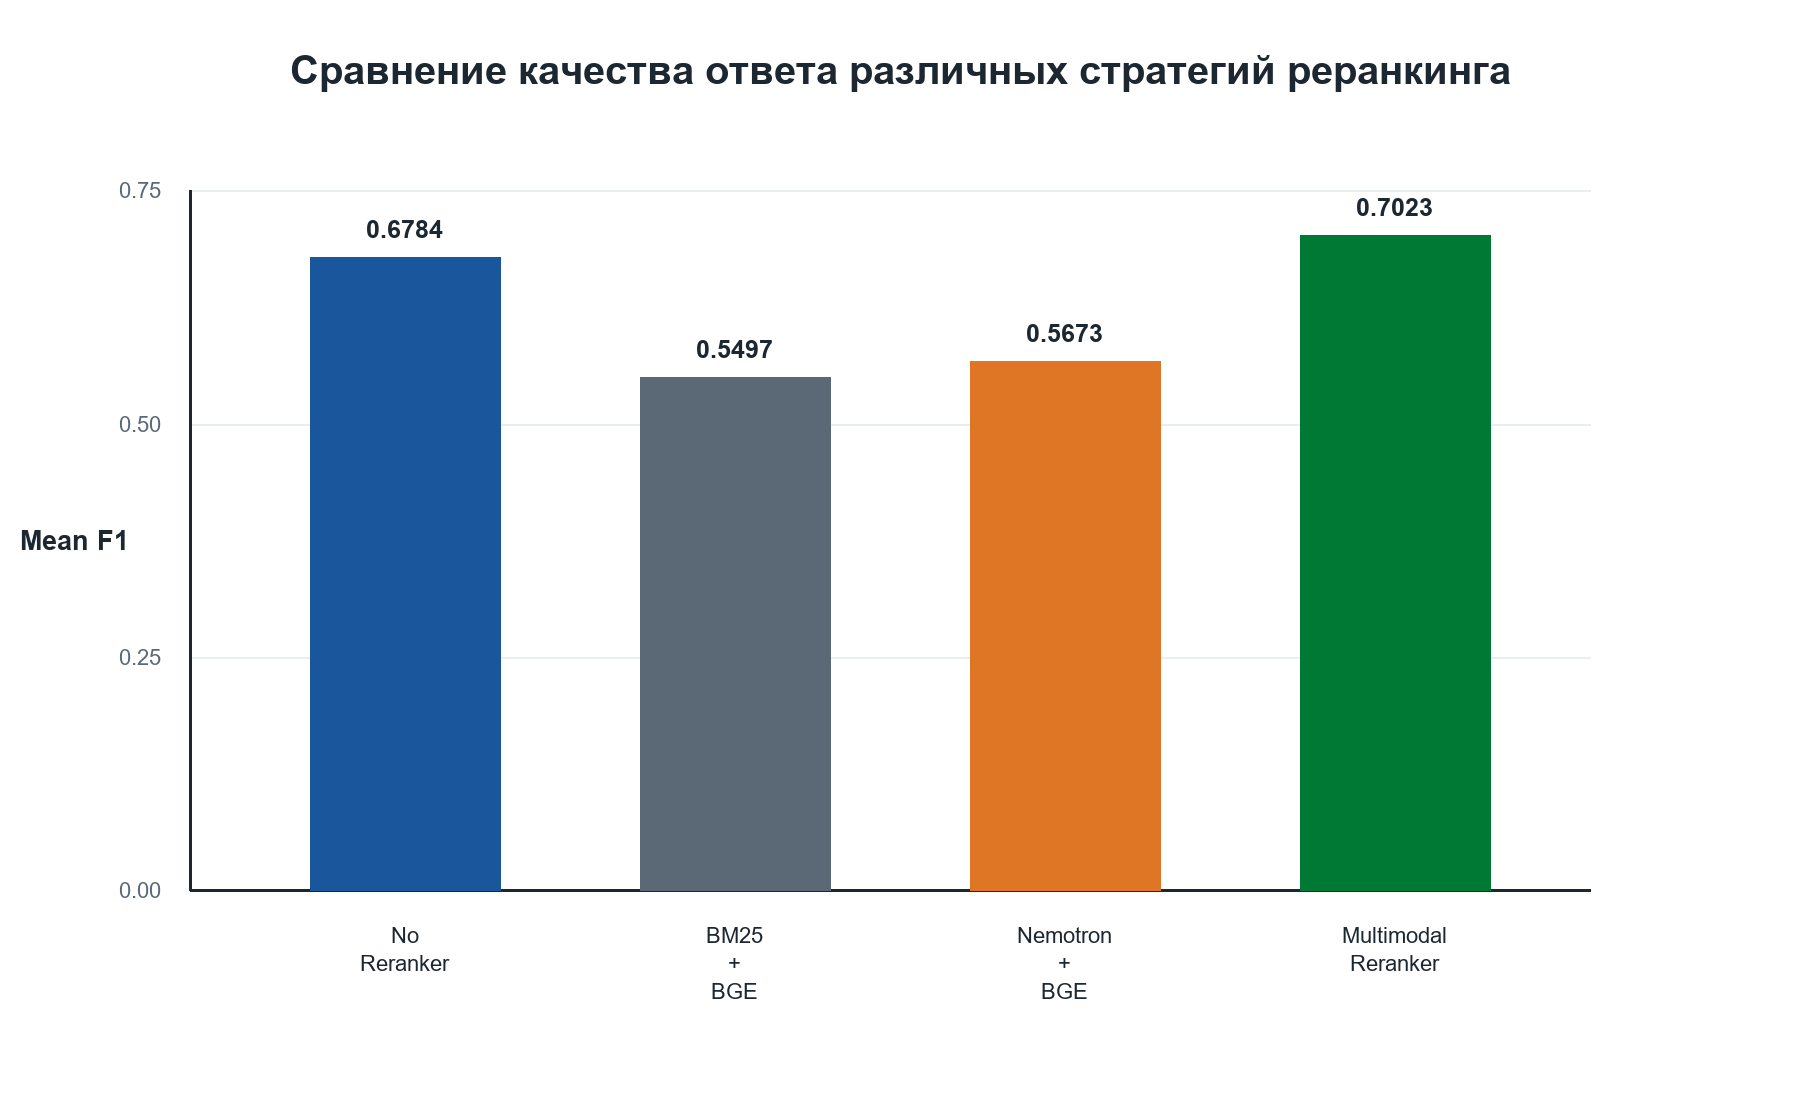
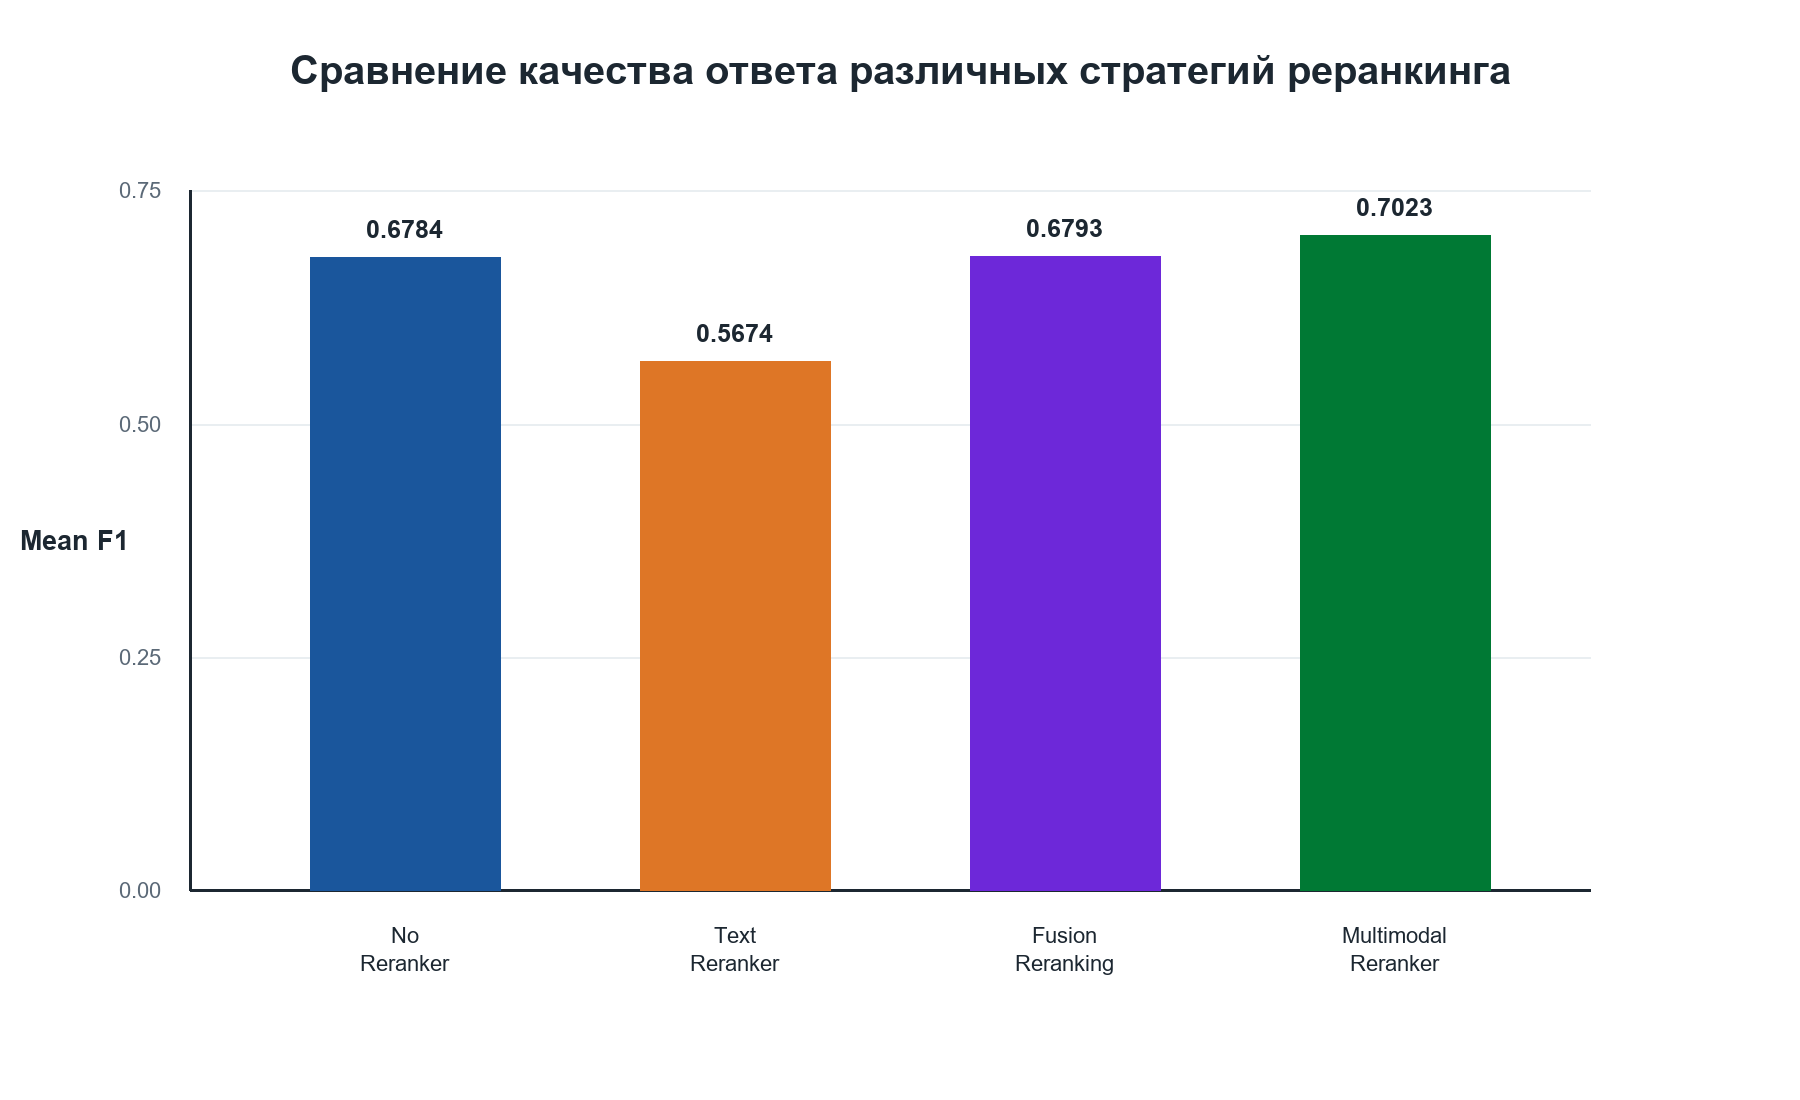
Update main reranking figures

Changed region(s): [[0.5289, 0.1855, 0.6533, 0.8964], [0.3422, 0.2782, 0.4667, 0.8964]]

diff --git a/scripts/generate_adaptive_article_figures.py b/scripts/generate_adaptive_article_figures.py
@@ -49,8 +49,7 @@ def draw_scatter_quality_latency():
     png = OUT / "reranking_quality_latency_scatter_main.png"
     svg = OUT / "reranking_quality_latency_scatter_main.svg"
     points = [
-        ("BM25 + BGE", 1.2344, 0.5497, MUTED),
-        ("Nemotron + BGE", 1.1160, 0.5673, ORANGE),
+        ("Text Reranker", 1.1160, 0.5674, ORANGE),
         ("Fusion", 2.5080, 0.6575, PURPLE),
         ("No Reranker", 3.4263, 0.6784, BLUE),
         ("Multimodal Reranker", 13.6441, 0.7023, GREEN),
@@ -136,8 +135,7 @@ def draw_scatter_quality_latency():
     body.append(svg_text(70, top + plot_h // 2, "Mean F1", 27, DARK, "700", "middle"))
 
     label_offsets = {
-        "BM25 + BGE": (35, 42),
-        "Nemotron + BGE": (35, -28),
+        "Text Reranker": (35, -28),
         "Fusion": (25, 42),
         "No Reranker": (25, -22),
         "Multimodal Reranker": (-220, 45),
@@ -261,8 +259,8 @@ def draw_mean_f1_barplot():
     svg = OUT / "reranking_mean_f1_barplot_main.svg"
     rows = [
         ("No Reranker", 0.6784, BLUE),
-        ("BM25 + BGE", 0.5497, MUTED),
-        ("Nemotron + BGE", 0.5673, ORANGE),
+        ("Text Reranker", 0.5674, ORANGE),
+        ("Fusion Reranking", 0.6793, PURPLE),
         ("Multimodal Reranker", 0.7023, GREEN),
     ]
     w, h = 1800, 1100

diff --git a/scripts/generate_quality_latency_scatter_with_fusion.py b/scripts/generate_quality_latency_scatter_with_fusion.py
@@ -48,8 +48,7 @@ def main() -> None:
     png = OUT / "reranking_quality_latency_scatter_main.png"
     svg = OUT / "reranking_quality_latency_scatter_main.svg"
     points = [
-        ("BM25 + BGE", 1.2344, 0.5497, MUTED),
-        ("Nemotron + BGE", 1.1160, 0.5673, ORANGE),
+        ("Text Reranker", 1.1160, 0.5674, ORANGE),
         ("Fusion", 2.5080, 0.6575, PURPLE),
         ("No Reranker", 3.4263, 0.6784, BLUE),
         ("Multimodal Reranker", 13.6441, 0.7023, GREEN),
@@ -123,8 +122,7 @@ def main() -> None:
     body.append(svg_text(70, top + plot_h // 2, "Mean F1", 27, DARK, "700", "middle"))
 
     label_offsets = {
-        "BM25 + BGE": (35, 42),
-        "Nemotron + BGE": (35, -28),
+        "Text Reranker": (35, -28),
         "Fusion": (25, 42),
         "No Reranker": (25, -22),
         "Multimodal Reranker": (-220, 45),
